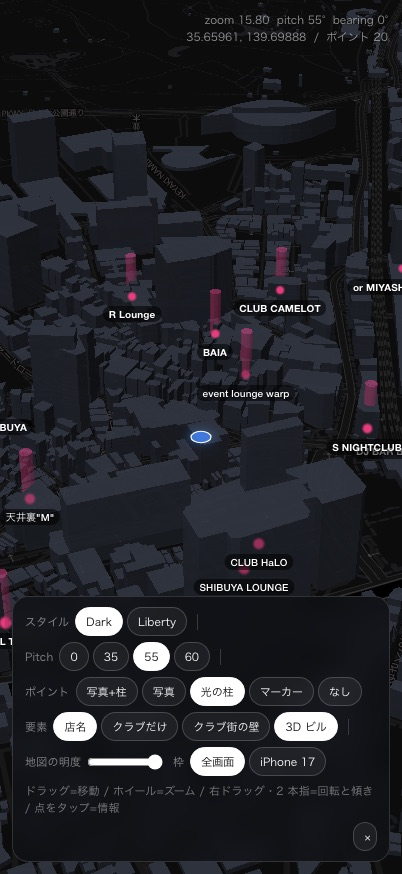
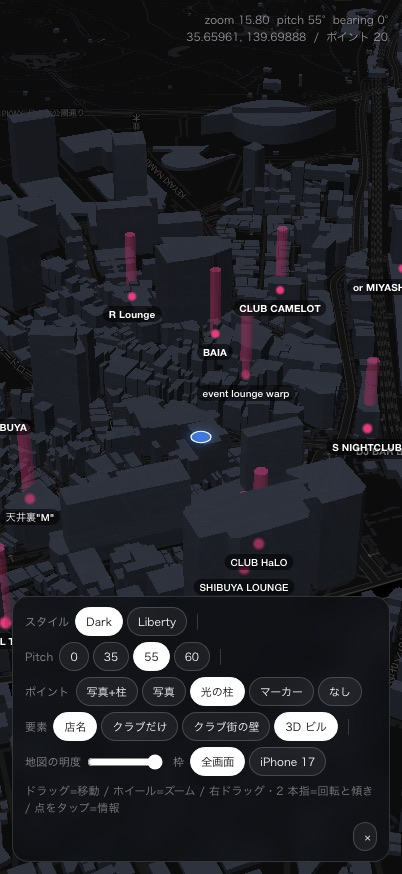
feat(World3D): ポイントを「光の柱の先端に店の写真」にする（engine と同じ 3D 投影で DOM を置く）

diff --git a/handoff/World3D/World3D.html b/handoff/World3D/World3D.html
@@ -11,7 +11,8 @@
 
   出しているデータは**渋谷のナイトクラブ 20 件だけ**（本番 DB の場所 = Places 由来。
   位置・店の写真・ジャンル・営業時間・評価を持つ）。開発用のモック（サークル / 投稿 / お題）は出さない。
-  既定の「ポイント」は 店の写真（36 の角丸タイル）+ 光の柱。操作盤で写真だけ / 柱だけにもできる。
+  既定の「ポイント」は **光の柱（90m）の先端に店の写真**。操作盤で 地上の写真タイル（アプリの場所ピン）/
+  柱だけ / 赤いマーカー にも切り替えられる。
 
   engine / vendor / data は R2（https://media.toopdbq.com/design/world3d/…）から読む。
   engine = アプリ実装（assets/web/earth/*.js）の一方向の写しなので、ここから編集しない。
@@ -50,7 +51,31 @@
   #center-marker-glow { filter: blur(4px); }
   .maplibregl-canvas-container, .maplibregl-canvas { background: transparent !important; }
 
-  /* --- 店名（このページ固有。DOM マーカー = engine の場所ピンと同じ方式） ---------
+  /* --- 柱の先端の写真（このページ固有）-------------------------------------------
+     位置は engine が壁の名前でやっているのと同じ投影
+     （transform.coordinatePoint(MercatorCoordinate, 高さ m)）。DOM なので 3D ビルや壁の
+     depth に負けず常に前面に出る。 */
+  #tips { position: absolute; inset: 0; z-index: 4; pointer-events: none; overflow: hidden; }
+  .tip {
+    position: absolute; top: 0; left: 0; width: 44px; height: 44px;
+    pointer-events: auto; cursor: pointer; will-change: transform;
+  }
+  .tip-photo {
+    width: 100%; height: 100%; border-radius: 10px; overflow: hidden;
+    background: #16131f; box-shadow: 0 6px 18px rgba(0, 0, 0, .55);
+    outline: 1px solid rgba(255, 255, 255, .55); outline-offset: -1px;
+  }
+  .tip-photo img { width: 100%; height: 100%; object-fit: cover; display: block; }
+  .tip-name {
+    position: absolute; top: calc(100% + 5px); left: 50%; transform: translateX(-50%);
+    max-width: 124px; overflow: hidden; text-overflow: ellipsis; white-space: nowrap;
+    font-size: 10px; font-weight: 600; line-height: 1; padding: 3px 6px; border-radius: 99px;
+    color: #fff; background: rgba(0, 0, 0, .55); text-shadow: 0 1px 2px rgba(0, 0, 0, .9);
+  }
+  .tip.lounge .tip-photo { outline-color: rgba(255, 255, 255, .3); }
+  .tip.lounge .tip-name { opacity: .62; font-weight: 500; }
+
+  /* --- 店名（柱 / マーカーのときの DOM マーカー = engine の場所ピンと同じ方式） -----
      20 点が半径 580m に密集するので今は素の pill。衝突回避はデザインで決める話。 */
   .club-label {
     max-width: 124px; overflow: hidden; text-overflow: ellipsis; white-space: nowrap;
@@ -121,6 +146,8 @@
     <ellipse id="center-marker" cx="0" cy="0" rx="10" ry="10"
              fill="rgba(66,133,244,0.80)" stroke="#FFFFFF" stroke-width="1.2" />
   </svg>
+  <!-- 柱の先端の写真（ページ固有。engine の DOM ではない） -->
+  <div id="tips"></div>
 </div>
 
 <div id="readout"></div>
@@ -168,7 +195,7 @@
 <!-- vendor: アプリが同梱しているものと同一版（MapLibre GL JS 5.6.0） -->
 <script src="https://media.toopdbq.com/design/world3d/vendor/maplibre-gl-5.6.0.js"></script>
 <!-- data: 本番 DB の場所（placeDetails）から渋谷のナイトクラブだけを抜いた生成物 -->
-<script src="https://media.toopdbq.com/design/world3d/data.js?v=cc213411"></script>
+<script src="https://media.toopdbq.com/design/world3d/data.js?v=d2e3e1ad"></script>
 <script>
 // engine（map-core.js）は**自分が読み込まれた瞬間の URL クエリ**（lat / lng / zoom / pitch / bearing）で
 // 初回カメラを確定する。engine より前にここで data のエリアとページの既定を書いておけば、起動の瞬間から
@@ -187,12 +214,12 @@
 </script>
 
 <!-- engine: アプリ実装 assets/web/earth/*.js の写し。読み込み順は earth.html と同じ -->
-<script src="https://media.toopdbq.com/design/world3d/engine/bridge.js?v=cc213411"></script>
-<script src="https://media.toopdbq.com/design/world3d/engine/map-core.js?v=cc213411"></script>
-<script src="https://media.toopdbq.com/design/world3d/engine/pins.js?v=cc213411"></script>
-<script src="https://media.toopdbq.com/design/world3d/engine/circles.js?v=cc213411"></script>
-<script src="https://media.toopdbq.com/design/world3d/engine/overlay.js?v=cc213411"></script>
-<script src="https://media.toopdbq.com/design/world3d/engine/places.js?v=cc213411"></script>
+<script src="https://media.toopdbq.com/design/world3d/engine/bridge.js?v=d2e3e1ad"></script>
+<script src="https://media.toopdbq.com/design/world3d/engine/map-core.js?v=d2e3e1ad"></script>
+<script src="https://media.toopdbq.com/design/world3d/engine/pins.js?v=d2e3e1ad"></script>
+<script src="https://media.toopdbq.com/design/world3d/engine/circles.js?v=d2e3e1ad"></script>
+<script src="https://media.toopdbq.com/design/world3d/engine/overlay.js?v=d2e3e1ad"></script>
+<script src="https://media.toopdbq.com/design/world3d/engine/places.js?v=d2e3e1ad"></script>
 
 <script>
 // ============================================================================
@@ -275,7 +302,8 @@
   const SRC_PT = 'w3d-club-pts', SRC_BEAM = 'w3d-club-beams';
   const L_DISC = 'w3d-club-disc', L_BEAM = 'w3d-club-beam';
   const POINT_COLOR = '#ff3e88';  // DS の --state-like / --grad-pink（アプリの唯一のアクセント）
-  const BEAM_R_M = 7, BEAM_H_M = 60;
+  // 柱は渋谷のビル（おおむね 20〜80m）より高くして、先端の写真が屋上に埋もれないようにする
+  const BEAM_R_M = 7, BEAM_H_M = 90;
 
   function discRing(lat, lng, rM, seg) {
     const dLat = rM / 111320, dLng = rM / (111320 * Math.cos(lat * Math.PI / 180));
@@ -328,11 +356,66 @@
       });
     }
   }
+  // 柱の先端の写真（DOM）。投影は engine が壁の名前で使っているのと同じ
+  //   transform.coordinatePoint(MercatorCoordinate, z[m]) — pixelMatrix が z を m でスケール済み。
+  // globe 描画中（引いたとき）は取れないので地表の投影で代用する。
+  const tipsHost = document.getElementById('tips');
+  let tips = [];
+  function tipPx(c) {
+    try {
+      const tr = map.transform;
+      const mt = tr.currentTransform || tr;
+      if (typeof mt.coordinatePoint === 'function') {
+        return mt.coordinatePoint(
+          maplibregl.MercatorCoordinate.fromLngLat({ lng: c.lng, lat: c.lat }), BEAM_H_M);
+      }
+    } catch (_) {}
+    return map.project([c.lng, c.lat]);
+  }
+  function positionTips() {
+    if (!tips.length) return;
+    const w = stage.clientWidth, h = stage.clientHeight;
+    for (const t of tips) {
+      const p = tipPx(t.c);
+      if (!p || !Number.isFinite(p.x) || p.x < -120 || p.y < -140 || p.x > w + 120 || p.y > h + 140) {
+        t.el.style.visibility = 'hidden';
+        continue;
+      }
+      t.el.style.visibility = '';
+      // 要素の下辺の中央 = 柱の先端
+      t.el.style.transform = `translate(${p.x.toFixed(1)}px, ${p.y.toFixed(1)}px) translate(-50%, -100%)`;
+    }
+  }
+  function buildTips(list) {
+    tipsHost.textContent = '';
+    tips = list.map((c) => {
+      const el = document.createElement('div');
+      el.className = 'tip' + (c.kind === 'club' ? '' : ' lounge');
+      const photo = document.createElement('div');
+      photo.className = 'tip-photo';
+      const img = document.createElement('img');
+      img.src = c.imageUrl; img.alt = ''; img.loading = 'eager';
+      photo.appendChild(img);
+      el.appendChild(photo);
+      const nm = document.createElement('div');
+      nm.className = 'tip-name';
+      nm.textContent = c.name;
+      nm.hidden = !S.labels;
+      el.appendChild(nm);
+      el.addEventListener('click', (e) => { e.stopPropagation(); showCard(c); });
+      tipsHost.appendChild(el);
+      return { c, el, nm };
+    });
+    positionTips();
+  }
+
   let labelMarkers = [];
   function applyLabels() {
+    // 「写真+柱」のときは名前を先端の写真の下に出す（別マーカーにしない）
+    for (const t of tips) t.nm.hidden = !S.labels;
     labelMarkers.forEach((m) => m.remove());
     labelMarkers = [];
-    if (!S.labels || S.points === 'off') return;
+    if (!S.labels || S.points === 'off' || S.points === 'both') return;
     for (const c of visible()) {
       const el = document.createElement('div');
       el.className = 'club-label' + (c.kind === 'club' ? '' : ' lounge');
@@ -349,16 +432,17 @@
   function applyPoints() {
     if (!map.isStyleLoaded()) { whenReady(applyPoints); return; }
     const list = visible();
-    // 写真 / マーカーは engine の場所ピン（アプリの既存ボキャブラリそのもの）
-    const tile = S.points === 'both' || S.points === 'photo';
-    if (tile || S.points === 'pin') {
+    // 「写真」「マーカー」は engine の場所ピン（地面に置くアプリの既存ボキャブラリそのもの）
+    if (S.points === 'photo' || S.points === 'pin') {
       window.setPlacePins({
         pins: list.map((c) => ({ key: c.key, lat: c.lat, lng: c.lng, imageUrl: c.imageUrl })),
-        style: tile ? 'tile' : 'pin',
+        style: S.points === 'photo' ? 'tile' : 'pin',
       });
     } else {
       window.clearPlacePins();
     }
+    // 「写真+柱」は柱の先端に写真を置く（このページ固有の 3D 表現）
+    buildTips(S.points === 'both' ? list : []);
     const beam = (S.points === 'both' || S.points === 'beam') ? list : [];
     setGeo(SRC_PT, ptGeo(beam));
     setGeo(SRC_BEAM, beamGeo(beam));
@@ -463,7 +547,7 @@
     if (act === 'frame') {
       S.framed = v === '1';
       document.body.classList.toggle('framed', S.framed);
-      requestAnimationFrame(() => { map.resize(); applyWall(); });
+      requestAnimationFrame(() => { map.resize(); applyWall(); positionTips(); });
     }
     if (act === 'toggle') {
       S[v] = !S[v];
@@ -506,6 +590,7 @@
     syncUi();
     paint();
     map.on('move', paint);
+    map.on('render', positionTips);
     map.on('pitchend', syncUi);
     map.on('click', (e) => {
       const layers = [L_BEAM, L_DISC].filter((id) => map.getLayer(id));
@@ -514,12 +599,13 @@
       if (hit.length) showCard(D.clubs[hit[0].properties.i]);
     });
   });
-  window.addEventListener('resize', () => { map.resize(); });
+  window.addEventListener('resize', () => { map.resize(); positionTips(); });
 
   // 自分のコードから触るための口（コンソールでも使える）
   window.World3D = {
     state: S, data: D, area: AREA, map,
     applyAll, applyCamera, applyPoints, applyLabels, applyWall, applyBuildings, showCard,
+    positionTips,
     visible,
   };
 })();

diff --git a/handoff/World3D/HANDOFF.md b/handoff/World3D/HANDOFF.md
@@ -5,9 +5,9 @@
 （本番 DB の実データ）。開発用のモック（サークル・投稿・お題）は出さない。
 
 - ページ: `World3D.html`（Claude Design のページ一覧の「World3D」）
-- 直リンク: `https://media.toopdbq.com/design/world3d/World3D.html?v=cc213411`
+- 直リンク: `https://media.toopdbq.com/design/world3d/World3D.html?v=d2e3e1ad`
   （`?v=` は配信キャッシュ避け。古い版が出たら本体側で再生成した新しい `?v=` をもらう）
-- 見た目の記録: `shots/points.jpg`（既定 = 夜 + 店の写真 + 光の柱）/ `shots/beam.jpg`（柱だけ）/
+- 見た目の記録: `shots/points.jpg`（既定 = 夜 + 柱の先端に店の写真）/ `shots/beam.jpg`（柱だけ）/
   `shots/wall.jpg`（既存のエリアの壁と同居）/ `shots/liberty.jpg`（昼）
 
 ## 依頼
@@ -17,9 +17,10 @@
 
 決めてほしいこと:
 
-1. **ポイントの姿** — 今は 店の写真（36 の角丸タイル = アプリ既存の場所ピン）+ 素の光の柱
-   （ピンク `#ff3e88` / 半径 7m / 高さ 60m の押し出し）。柱は「点がそこにある」以上の意味を持たない
-   仮の形。クラブの箱・音・混み具合のどれを立体で語るのかを決める（写真だけ / 柱だけにも切り替えられる）
+1. **ポイントの姿** — 今は **光の柱（ピンク `#ff3e88` / 半径 7m / 高さ 90m）の先端に店の写真**
+   （44 の角丸・名前つき）。柱の高さも太さも今は全店同じで、「点がそこにある」以上の意味を持たない
+   仮の形。クラブの箱・音・混み具合のどれを立体で語るのかを決める
+   （操作盤で 地上の写真タイル = アプリ既存の場所ピン / 柱だけ / 赤いマーカー にも切り替えられる）
 2. **密集の扱い** — 20 点が半径 580m に入る（道玄坂・円山町は 1 ビルに複数）。今は店名の pill が
    素直に重なる。まとめる / 寄ると分かれる / 遠いと 1 つになる、のどれか
 3. **遠近** — 街の中（zoom 16〜17.5）と、引いた渋谷全体（zoom 14 前後）と、地球（zoom 6.4）で
@@ -99,6 +100,13 @@ URL クエリ: `?style=liberty&pitch=60&points=both|photo|beam|pin|off&labels=0&
   （0–42%: α.16 / 42–80%: α.07）+ 地面のにじみ（半径比 .17 でα.3 / .045 でα.7）
 - 深度テストを切って**常に最前面**。壁面の名前は円筒に沿って曲がり、手前を 36px/s で流れる
 - 状態色: 通常 白 / 達成 `#7cc47f`（高さ 60%）/ 未所属 `#9aa1ab`（0.72 倍）
+
+**3D の上に DOM を置く（先端の写真がやっていること）**
+- 位置は `map.transform.currentTransform.coordinatePoint(MercatorCoordinate.fromLngLat(ll), z[m])`
+  ＝ engine が壁の名前で使っているのと同じ投影（`pixelMatrix` が z を m でスケール済み）。
+  引いて globe 描画に入ると取れないので、そのときは地表の投影で代用する
+- DOM なので 3D ビル・壁の depth に負けず**常に前面**。毎 `render` で transform を書き換える
+  （20 枚で実測問題なし。増えるなら画面外を間引く）
 
 **場所ピン（アプリが既に持っている点の形）**
 - 写真の角丸スクエア 36（地点が中心・選択時だけ白枠）
